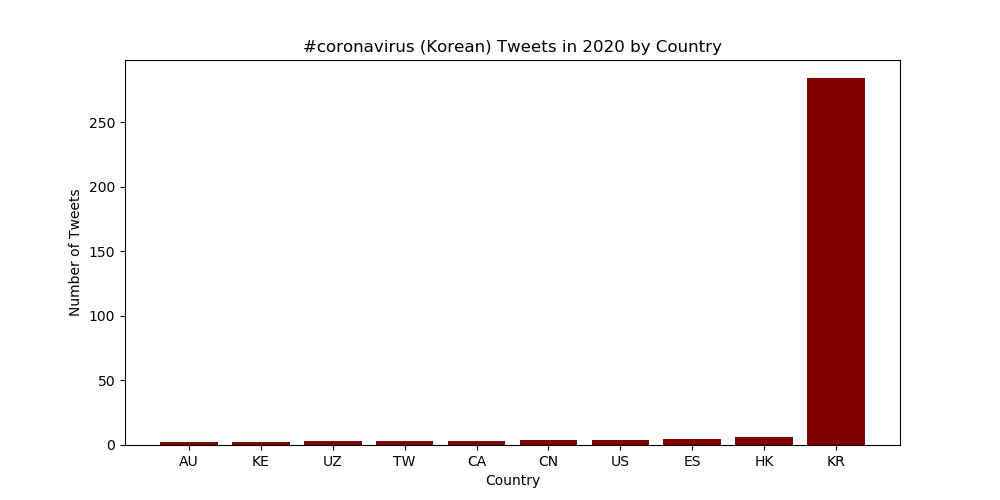
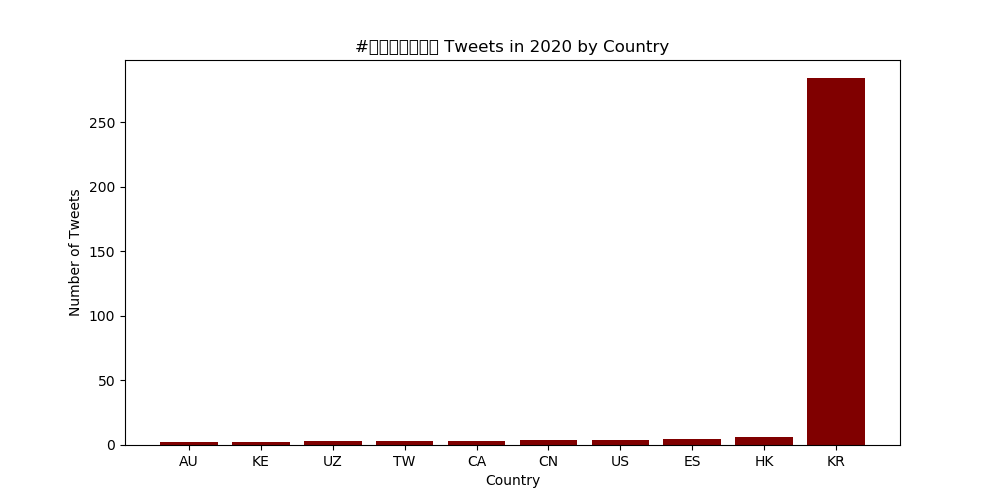
try to get korean text #1 (family)

Changed region(s): [[0.31, 0.06, 0.713, 0.12]]

diff --git a/src/visualize.py b/src/visualize.py
@@ -47,6 +47,6 @@ plt.bar(range(len(x)), y, color ='maroon', width = 0.8)
 plt.xticks(range(len(x)), x)
 plt.xlabel(f"{category.capitalize()}")
 plt.ylabel(f"Number of Tweets")
-plt.title(f"#coronavirus ({language}) Tweets in 2020 by {category.capitalize()}")
+plt.title(f"{args.key} Tweets in 2020 by {category.capitalize()}", family=['DejaVu Sans', 'WenQuanYi Zen Hei', 'Noto Sans CJK'])
 fig.savefig(f"{category}_{language}.png")
 plt.close(fig)
